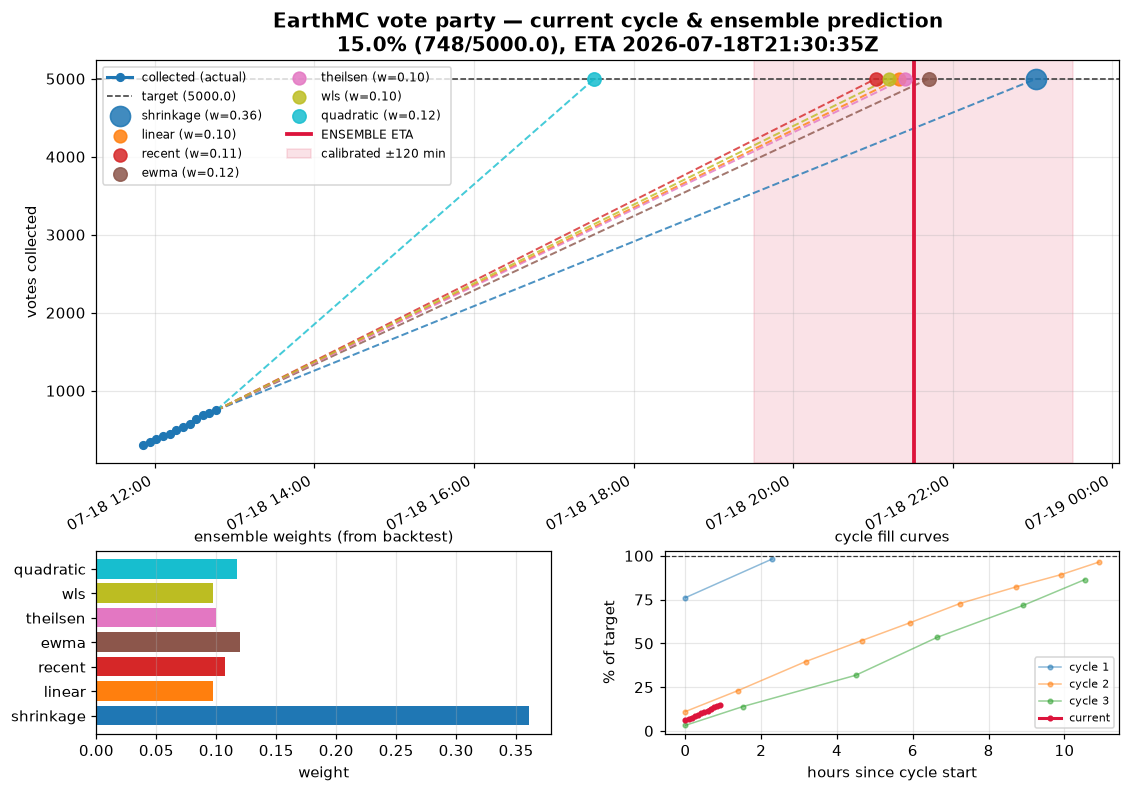
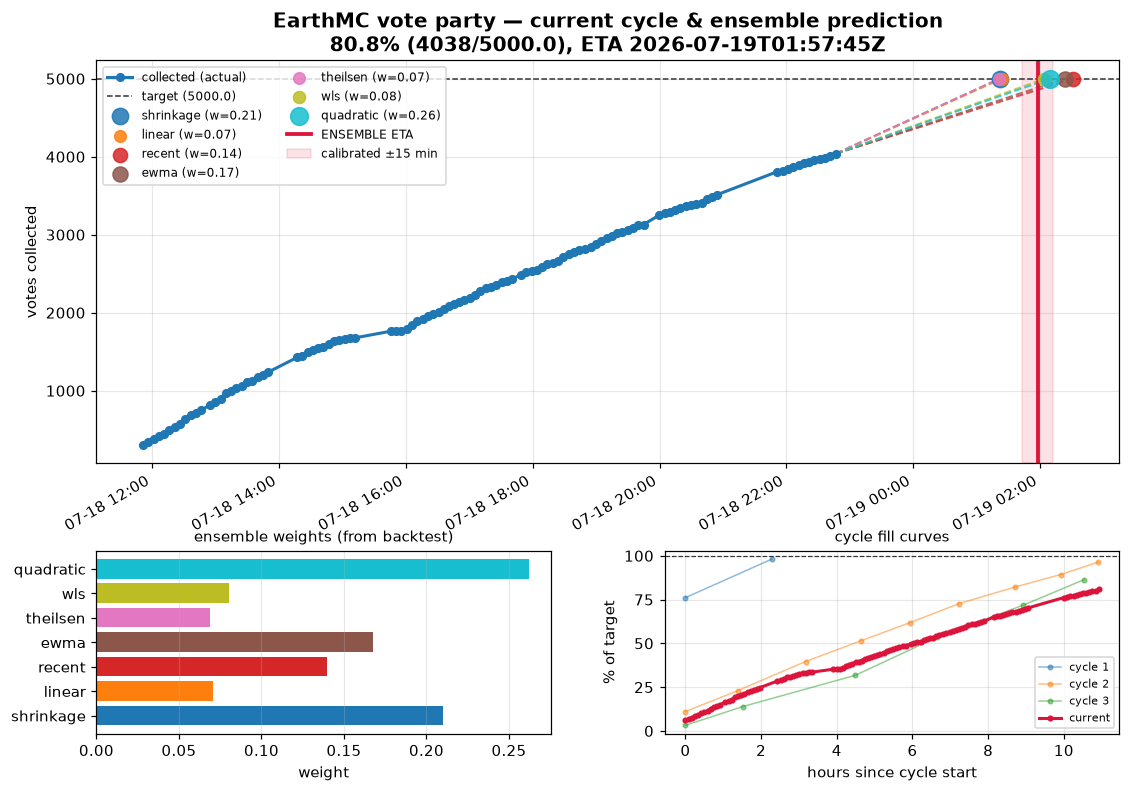
Regenerate prediction/accuracy outputs from latest data
Claude-Session: https://claude.ai/code/session_01DHytVvh2inT8mdobk2gRPH

diff --git a/data/PREDICTION.md b/data/PREDICTION.md
@@ -1,26 +1,26 @@
 # Vote Party Prediction
 
-_Generated 2026-07-18T12:46:06Z — recomputed every data update._
+_Generated 2026-07-18T22:46:27Z — recomputed every data update._
 
-**Progress:** 748 / 5000.0 (15.0%) — 4252 remaining
-**Players online:** 601  |  **Cycle started:** 2026-07-18T11:51:06Z  |  **Data points this cycle:** 12
+**Progress:** 4038 / 5000.0 (80.8%) — 962 remaining
+**Players online:** 546  |  **Cycle started:** 2026-07-18T11:51:06Z  |  **Data points this cycle:** 108
 
 ## 🎯 Ensemble prediction
 
-**Vote party fires ≈ `2026-07-18T21:30:35Z`**
-Calibrated confidence: **±120 min** (`2026-07-18T19:30:52Z` → `2026-07-18T23:30:18Z`) — the ensemble's measured error at this cycle stage.
-Model spread: `2026-07-18T17:30:32Z` → `2026-07-18T23:02:49Z`
+**Vote party fires ≈ `2026-07-19T01:57:45Z`**
+Calibrated confidence: **±15 min** (`2026-07-19T01:43:07Z` → `2026-07-19T02:12:23Z`) — the ensemble's measured error at this cycle stage.
+Model spread: `2026-07-19T01:21:03Z` → `2026-07-19T02:31:03Z`
 
 ## Individual models
 
 | Model | Predicted ETA | Weight | Backtest RMSE |
 |-------|---------------|--------|---------------|
-| shrinkage | 2026-07-18T23:02:49Z | 0.361 | 0.77396 |
-| ewma | 2026-07-18T21:41:56Z | 0.120 | 1.15774 |
-| quadratic | 2026-07-18T17:30:32Z | 0.117 | 1.05846 |
-| recent | 2026-07-18T21:02:10Z | 0.107 | 1.23207 |
-| theilsen | 2026-07-18T21:23:51Z | 0.100 | 1.31598 |
-| wls | 2026-07-18T21:12:11Z | 0.098 | 1.31572 |
-| linear | 2026-07-18T21:19:24Z | 0.097 | 1.33777 |
+| quadratic | 2026-07-19T02:09:11Z | 0.262 | 1.05846 |
+| shrinkage | 2026-07-19T01:21:42Z | 0.210 | 0.77396 |
+| ewma | 2026-07-19T02:23:39Z | 0.168 | 1.15774 |
+| recent | 2026-07-19T02:31:03Z | 0.140 | 1.23207 |
+| wls | 2026-07-19T02:04:05Z | 0.081 | 1.31572 |
+| linear | 2026-07-19T01:23:33Z | 0.070 | 1.33777 |
+| theilsen | 2026-07-19T01:21:03Z | 0.069 | 1.31598 |
 
 Weights come from a rolling-origin backtest on completed cycles (leave-one-out for history-aware models): each model's inverse mean-squared extrapolation error, normalised. See `prediction.png`.
